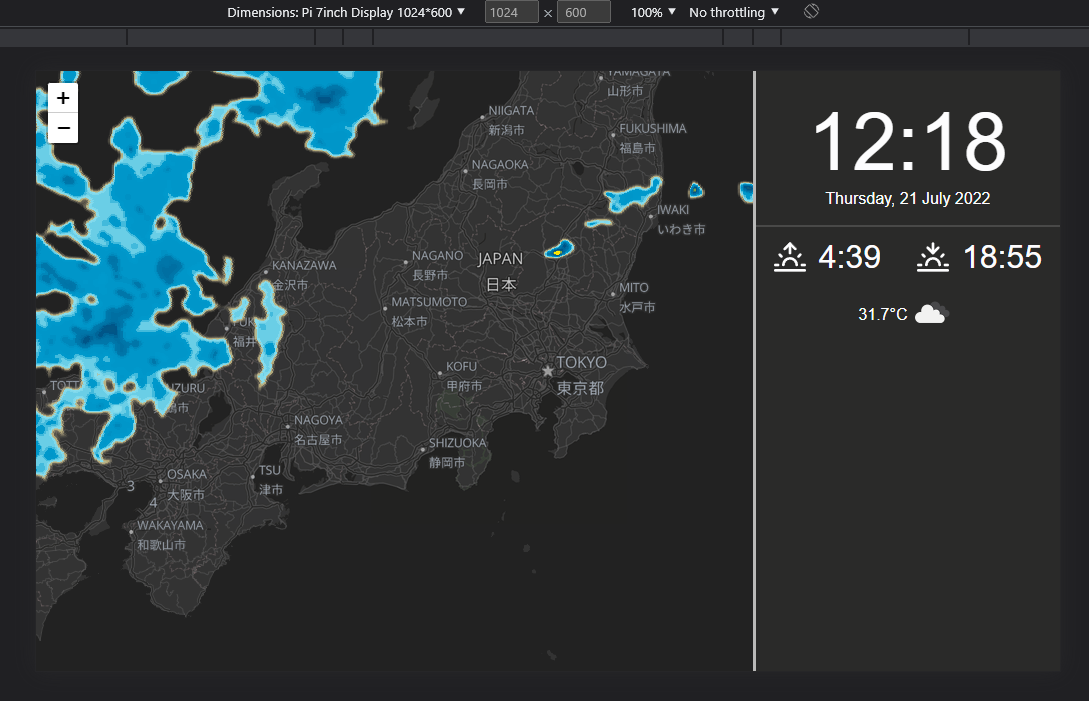
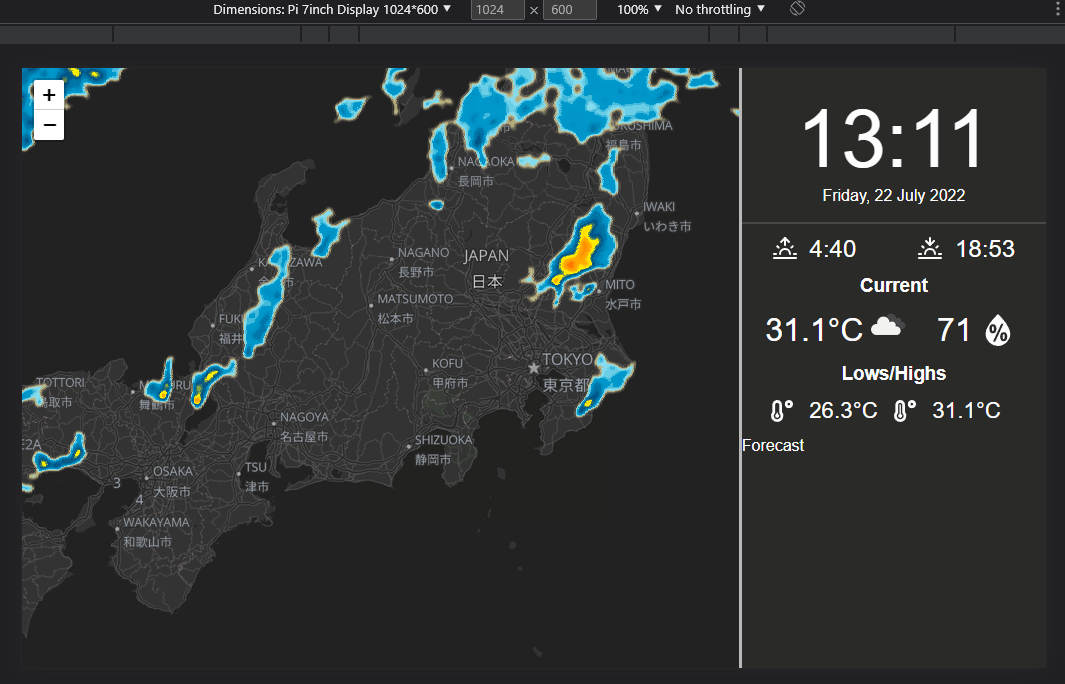
Added humidity, lows/highs and removed sunrise/sunset API

diff --git a/components/information/weather/GetWeather.tsx b/components/information/weather/GetWeather.tsx
@@ -1,22 +1,34 @@
 import React, { useEffect, useState } from "react";
 import CurrentWeather from "./CurrentWeather";
-import Forecast from "./Forecast";
+import Forecast from "./Forecast"; 
 import { useSelector } from "react-redux";
-import settings from "../../settings.json";
-import { useInterval } from "../../utils/hooks";
-import {kelvinToCelsius} from '../../utils/utils'
+import settings from "../../../settings.json";
+import { useInterval } from "../../../utils/hooks";
+import {kelvinToCelsius} from '../../../utils/utils'
+import SunriseSunset from "./SunriseSunset";
+import DailyMinMax from "./DailyMinMax";
 
 export default function GetWeather() {
   const weatherTimer = useSelector((state) => state.settings.openweatherTimer);
   const [isLoaded, setIsLoaded] = useState(false);
-  const [currentWeatherInformation, setCurrentWeatherInformation] = useState({
+  const [currentWeather, setCurrentWeather] = useState({
     temperature: 0,
     weatherIcon: '',
-    weatherIconAlt: ''
+    weatherIconAlt: '',
+    humidity: 0,
 
   })
+  const [sunriseSunset, setSunriseSunset] = useState({
+    sunrise: '',
+    sunset: ''
+  })
+
+  const [todaysMinMax, setTodaysMinMax] = useState({
+    min: 0,
+    max: 0
+  })
   const openWeatherAPI = settings.api.openweather;
-  const openWeatherAPIKey = process.env.OPENWEATHERAPIKEY ? process.env.OPENWEATHERAPIKEY : settings.api.openweatherAPIkey
+  const openWeatherAPIKey = process.env.NEXT_PUBLIC_OPENWEATHERAPIKEY ? process.env.NEXT_PUBLIC_OPENWEATHERAPIKEY : settings.api.openweatherAPIkey
   const userCoords = useSelector((state) => state.settings.coords);
   const formattedWeatherAPIKey = `${openWeatherAPI}?lat=${userCoords[0]}&lon=${userCoords[1]}&appid=${openWeatherAPIKey}`;
 
@@ -30,15 +42,24 @@ export default function GetWeather() {
     const apiData = getWeatherData();
 
     apiData.then((data) => {
-      console.log(formattedWeatherAPIKey);
       console.log(data);
       const temp = kelvinToCelsius(data.current.temp)
+      const minTemp = kelvinToCelsius(data.daily[0].temp.min)
+      const maxTemp = kelvinToCelsius(data.daily[0].temp.max)
 
-
-      setCurrentWeatherInformation({
+      setCurrentWeather({
         temperature: temp,
         weatherIcon: data.current.weather[0].icon,
         weatherIconAlt: data.current.weather[0].main,
+        humidity: data.current.humidity,
+      })
+      setSunriseSunset({
+        sunrise: data.current.sunrise,
+        sunset: data.current.sunset
+      })
+      setTodaysMinMax({
+        min: minTemp,
+        max: maxTemp
       })
       if (!isLoaded) {
         setIsLoaded(true)
@@ -60,8 +81,13 @@ export default function GetWeather() {
 
   return (
     <>
-      <CurrentWeather currentWeather={currentWeatherInformation}/>
-      {/* <Forecast /> */}
+      <SunriseSunset sunriseSunset={sunriseSunset} />
+      
+        
+      
+      <CurrentWeather currentWeather={currentWeather}/>
+      <DailyMinMax todaysMinMax={todaysMinMax} />
+      <Forecast />
     </>
   );
 }

diff --git a/components/information/weather/SunriseSunset.tsx b/components/information/weather/SunriseSunset.tsx
@@ -1,0 +1,33 @@
+import React, { useState, useEffect } from "react";
+import styles from "./SunriseSunset.module.scss";
+import { FiSunrise, FiSunset } from "react-icons/fi";
+import { formatHoursAndMinutes } from "../../../utils/utils";
+
+export default function SunriseSunset(props) {
+
+    if (props.sunriseSunset.sunrise !== "" && props.sunriseSunset.sunset !== "") {
+    const sunrise = new Date(props.sunriseSunset.sunrise * 1000);
+    const sunset = new Date(props.sunriseSunset.sunset * 1000);
+    const sunriseTimeFormatted = formatHoursAndMinutes(sunrise);
+    const sunsetTimeFormatted = formatHoursAndMinutes(sunset);
+
+    
+
+    return (
+    
+
+      <div className={styles.sunrise_sunset}>
+      <div className={styles.sunrise}>
+        <FiSunrise />
+        <p>{`${sunriseTimeFormatted.hours}:${sunriseTimeFormatted.minutes}`}</p>
+      </div>
+      <div className={styles.sunset}>
+        <FiSunset />
+        <p>{`${sunsetTimeFormatted.hours}:${sunsetTimeFormatted.minutes}`}</p>
+      </div>
+      </div>
+
+
+    );
+  }
+}

diff --git a/components/information/weather/CurrentWeather.tsx b/components/information/weather/CurrentWeather.tsx
@@ -1,16 +1,29 @@
 import React from 'react'
 import styles from './CurrentWeather.module.scss'
+import {WiHumidity} from 'react-icons/wi'
 
 export default function CurrentWeather(props) {
-  const {temperature, weatherIcon, weatherIconAlt} = props.currentWeather
   if (!props) return
+  const {temperature, weatherIcon, weatherIconAlt, humidity} = props.currentWeather
 
   return (
+    <>
+    <h3 className={styles.current}>Current</h3>
     <div className={styles.current_weather}>
+      
+      
+      <div className={styles.row}>
+      
         <p>{temperature.toFixed(1)}°C</p>
         <div className={styles.weather_icon}>
           <img src={`http://openweathermap.org/img/wn/${weatherIcon}@2x.png`} alt={weatherIconAlt} />
         </div>
+        </div>
+        <div className={styles.row}>
+        <p>{humidity}</p>
+        <WiHumidity/>
+        </div>
     </div>
+    </>
   )
 }

diff --git a/components/information/weather/DailyMinMax.tsx b/components/information/weather/DailyMinMax.tsx
@@ -1,0 +1,20 @@
+import React from 'react'
+import styles from './DailyMinMax.module.scss'
+import {FaTemperatureLow, FaTemperatureHigh} from 'react-icons/fa'
+export default function DailyMinMax(props) {
+
+    if (!props) return
+    const {min, max} = props.todaysMinMax
+  return (
+    <>
+    <h3 className={styles.minmax}>Lows/Highs</h3>
+    <div className={styles.temperatures}>
+      
+        <FaTemperatureLow />
+        <p>{min.toFixed(1)}°C</p>
+        <FaTemperatureHigh />
+        <p>{max.toFixed(1)}°C</p>
+    </div>
+    </>
+  )
+}

diff --git a/components/layout/Sidebar.tsx b/components/layout/Sidebar.tsx
@@ -1,14 +1,13 @@
 import React from 'react'
 import styles from './Sidebar.module.scss'
 import Clock from '../information/Clock'
-import SunriseSunset from '../information/SunriseSunset'
-import GetWeather from '../information/GetWeather'
+import GetWeather from '../information/weather/GetWeather'
 
 export default function Sidebar() {
   return (
     <div className={styles.sidebar_container}>
        <Clock />
-       <SunriseSunset />
+       
        <GetWeather />
         
     </div>

diff --git a/components/information/weather/CurrentWeather.module.scss b/components/information/weather/CurrentWeather.module.scss
@@ -1,0 +1,22 @@
+
+.current {
+    margin: 0 auto;
+    padding: 0;
+    text-align: center;
+}
+
+.current_weather,
+.row {
+  display: flex;
+  align-items: center;
+  justify-content: space-evenly;
+  font-size: 2rem;
+  p {
+    margin: 0.5rem 0;
+  }
+}
+.weather_icon img,
+.current_weather svg {
+    height: 50px;
+    width: 50px;
+  }

diff --git a/components/information/weather/Forecast.tsx b/components/information/weather/Forecast.tsx
@@ -1,11 +1,10 @@
 import React from 'react'
 import styles from './Forecast.module.scss'
-import settings from '../../settings.json'
 
 export default function Forecast() {
   return (
     <div className={styles.forecast}>
         Forecast
-        </div>
+    </div>
   )
 }

diff --git a/components/information/weather/DailyMinMax.module.scss b/components/information/weather/DailyMinMax.module.scss
@@ -1,0 +1,14 @@
+.minmax {
+    margin: 0 auto;
+    padding: 0;
+    text-align: center;
+}
+.temperatures {
+    display: flex;
+    justify-content: center;
+    font-size: 1.4rem;
+    align-items: center;
+    p {
+        margin: 0.5rem 1rem;
+    }
+}

diff --git a/components/information/weather/SunriseSunset.module.scss b/components/information/weather/SunriseSunset.module.scss
@@ -2,7 +2,7 @@
     display: flex;
     text-align: center;
     padding: 0.5rem 0;
-    font-size: 2rem;
+    font-size: 1.5rem;
     justify-content: space-around;
    
         .sunrise,
